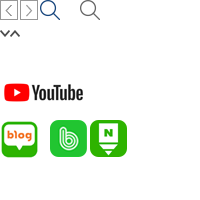
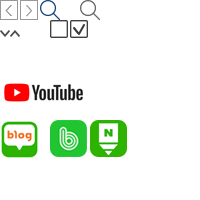
회원가입

Changed region(s): [[0.24, 0.09, 0.45, 0.21]]

diff --git a/chungwon/sub/signin.html b/chungwon/sub/signin.html
@@ -1,0 +1,177 @@
+<!DOCTYPE html>
+<html lang="ko">
+<head>
+	<meta charset="UTF-8">
+	<title>청원 PMC</title>
+	<link rel="stylesheet" href="../css/font.css">
+	<link rel="stylesheet" href="../css/common.css">
+	<link rel="stylesheet" href="../css/main.css">
+	<link rel="stylesheet" href="../css/jquery.bxslider.css">
+	<script src="../js/jquery-1.12.4.min.js"></script>
+	<script src="../js/jquery.bxslider.min.js"></script>
+</head>
+<body>
+<div id="chwIndex">
+	<a href="container">본문 바로가기</a>
+	<a href="chwGnb">메뉴 바로가기</a>
+</div>
+<div class="chw_wrap">
+	<div class="chw_header">
+		<div class="inner_header">
+			<h1><a href="#none" class="logo_chw">청원 PMC</a></h1>
+			<ul class="list_gnb">
+				<li>
+					<a href="#none" class="link_gnb">회원관리</a>
+					<ul class="list_sub">
+						<li><a href="#none" class="link_sub">로그인</a></li>
+						<li><a href="#none" class="link_sub">회원 가입</a></li>
+						<li><a href="#none" class="link_sub">회원 정보 수정</a></li>
+						<li><a href="#none" class="link_sub">회원사 가입</a></li>
+						<li><a href="#none" class="link_sub">소식 받기</a></li>
+					</ul>
+				</li>
+				<li>
+					<a href="#none" class="link_gnb">회사 소개</a>
+					<ul class="list_sub">
+						<li><a href="#none" class="link_sub">사업 영역 소개</a></li>
+						<li><a href="#none" class="link_sub">오시는 길</a></li>
+					</ul>
+				</li>
+				<li>
+					<a href="#none" class="link_gnb">PM 상담 접수</a>
+					<ul class="list_sub">
+						<li><a href="#none" class="link_sub">PM 상담 접수 리스트</a></li>
+						<li><a href="#none" class="link_sub">PM 접수</a></li>
+					</ul>
+				</li>
+				<li>
+					<a href="#none" class="link_gnb">전문가 컨설팅</a>
+				</li>
+				<li>
+					<a href="#none" class="link_gnb">맞춤 임대 찾기</a>					
+				</li>
+				<li>
+					<a href="#none" class="link_gnb">시장 분석</a>
+					<ul class="list_sub">
+						<li><a href="#none" class="link_sub">상권 분석 검색</a></li>
+					</ul>
+				</li>
+				<li>
+					<a href="#none" class="link_gnb">도움이 되는 실전 페이지</a>
+				</li>
+			</ul>
+		</div>
+	</div>
+	<div id="container" class="chw_cont"><!-- 콘텐츠 영역 표시를 위한 임시 스타일 -->
+		<h2 class="screen_out">본문</h2>
+		<div class="wrap_signin">
+			<form action="#">
+				<fieldset>
+					<legend><strong class="tit_sign">회원가입</strong></legend>
+					<div class="agree_signin">
+						<strong class="tit_agree">약관동의</strong>
+						<div class="box_agree">
+							<div class="inner_box">
+								가나다라마바사 가나다라마바사 가나다라마바사 가나다라마바사 가나다라마바사 가나다라마바사 가나다라마바사가나다라마바사 가나다라마바사 가나다라마바사 가나다라마바사 가나다라마바사 가나다라마바사 가나다라마바사가나다라마바사 가나다라마바사 가나다라마바사 가나다라마바사 가나다라마바사 가나다라마바사 가나다라마바사
+								<br><br>
+								가나다라마바사 가나다라마바사 가나다라마바사 가나다라마바사 가나다라마바사 가나다라마바사 가나다라마바사가나다라마바사 가나다라마바사 가나다라마바사 가나다라마바사 가나다라마바사 가나다라마바사 가나다라마바사가나다라마바사 가나다라마바사 가나다라마바사 가나다라마바사 가나다라마바사 가나다라마바사 가나다라마바사가나다라마바사 가나다라마바사 가나다라마바사 가나다라마바사 가나다라마바사 가나다라마바사 가나다라마바사가나다라마바사 가나다라마바사 가나다라마바사 가나다라마바사 가나다라마바사 가나다라마바사 가나다라마바사가나다라마바사 가나다라마바사 가나다라마바사 가나다라마바사 가나다라마바사 가나다라마바사 가나다라마바사
+							</div>
+						</div>
+						<div class="chk_signin">
+							<div class="chk_g">
+								<input type="checkbox" name="chkAgree" id="chkAgree" class="inp_chk">
+								<label for="chkAgree" class="ico_chw lab_chk"></label>
+								동의함
+							</div>
+						</div>
+					</div>
+					<div class="signin_chw">
+						<dl class="item_signin">
+							<dt class="signin_essential">
+								<label for="signId" class="lab_g">아이디</label>
+							</dt>
+							<dd>
+								<input type="text" name="signId" id="signId" class="inp_g">
+							</dd>
+							<dt class="signin_essential">
+								<label for="signLastName" class="lab_g">이름</label>
+							</dt>
+							<dd>
+								<input type="text" name="signLastName" id="signLastName" class="inp_g">
+							</dd>
+							<dt class="signin_essential">
+								<label for="signFirstName" class="lab_g">성</label>
+							</dt>
+							<dd>
+								<input type="text" name="signFirstName" id="signFirstName" class="inp_g">
+							</dd>
+							<dt class="signin_essential">
+								<label for="signPw" class="lab_g">비밀번호</label>
+							</dt>
+							<dd>
+								<input type="text" name="signPw" id="signPw" class="inp_g">
+							</dd>
+							<dt class="signin_essential">
+								<label for="signPwConfirm" class="lab_g">비밀번호 확인</label>
+							</dt>
+							<dd>
+								<input type="text" name="signPwConfirm" id="signPwConfirm" class="inp_g">
+							</dd>
+							<dt>
+								<label for="signPostCode" class="lab_g">우편번호</label>
+							</dt>
+							<dd>
+								<input type="text" name="signPostCode" id="signPostCode" class="inp_g">
+							</dd>
+							<dt>
+								<label for="signAddress" class="lab_g">주소</label>
+							</dt>
+							<dd>
+								<input type="text" name="signAddress" id="signAddress" class="inp_g">
+							</dd>
+							<dt class="signin_essential">
+								<label for="signTel" class="lab_g">전화번호</label>
+							</dt>
+							<dd>
+								<input type="text" name="signTel" id="signTel" class="inp_g">
+							</dd>
+							<dt class="signin_essential">
+								<label for="signEmail" class="lab_g">이메일</label>
+							</dt>
+							<dd>
+								<input type="text" name="signEmail" id="signEmail" class="inp_g">
+							</dd>
+						</dl>
+						<button type="submit" class="btn_signin">회원가입</button>
+					</div>
+				</fieldset>
+			</form>
+		</div>
+	</div>
+	<div class="chw_footer">
+		<div class="inner_footer">
+			<h1><a href="#none" class="logo_chw">청원PMC</a></h1>
+			<div class="info_company">
+				청원피엠씨㈜<br>
+				서울시 종로구 새문안로 92(신문로1가)오피시아 빌딩 1017호<br> 
+				문의 전화 : 02-6713-3738 I FAX : 02-3276-3088 I email : cw-pmc@cwpmc.co.kr<br>
+				Copyright © 2017 Chungwon PMC. All Rights Reserved.
+			</div>	
+			<div class="opt_chw"><!-- 셀렉트박스 오픈시 opt_open 클래스추가 -->
+				<button type="button" class="btn_opt">관련사이트<span class="ico_chw ico_arrow">열기</span></button>
+				<div class="list_opt">
+					<a href="http://www.iros.go.kr" target="_blank" class="link_opt">대법원 인터넷 등기소</a>
+					<a href="http://www.molit.go.kr" target="_blank" class="link_opt">국토교통부</a>
+					<a href="http://www.nts.go.kr/" target="_blank" class="link_opt">국세청</a>
+					<a href="http://www.onnara.go.kr" target="_blank" class="link_opt">온나라 부동산정보포탈</a>
+					<a href="http://www.koreit.co.kr" target="_blank" class="link_opt">한국 토지신탁</a>
+					<a href="http://www.onbid.co.kr" target="_blank" class="link_opt">온비드</a>
+					<a href="http://www.lh.or.kr" target="_blank" class="link_opt">한국토지주택공사</a>
+				</div>
+			</div>
+		</div>
+	</div>
+</div>
+<script src="../js/common.js"></script>
+</body>
+</html>

diff --git a/chungwon/css/main.css b/chungwon/css/main.css
@@ -26,6 +26,12 @@
 .opt_chw .ico_arrow{float:right;width:10px;height:7px;margin:9px 0 0;background-position:0 -30px}
 .opt_chw.opt_open .ico_arrow{background-position:-10px -30px}
 
+/* 체크박스 공통 */
+.chk_g {position:relative}
+.chk_g .inp_chk{position:absolute;top:0;left:0;width:100%;height:100%;opacity:0.01}
+.chk_g .inp_chk:checked + .lab_chk{background-position:-70px -20px}
+.chk_g .lab_chk{display:inline-block;width:20px;height:20px;vertical-align:top;background-position:-50px -20px}
+
 /* 콘텐츠 */
 .chw_cont{padding:0 0 60px}
 
@@ -169,14 +175,35 @@
 .item_login{overflow:hidden;padding:40px 0 0}
 .item_login dt{float:left;width:60px;padding:10px 0 0 20px}
 .item_login dd{overflow:hidden;padding:0 0 0 50px}
+.item_login dd .desc_g{padding:6px 0 0;color:#666}
 .item_login .inp_g{width:100%;padding:10px 15px;border:none;font-size:16px;background-color:#f1f1f1;box-sizing:border-box}
 .lab_login{font-size:16px;font-family:Noto Sans Bold, AppleSDGothicNeo-Bold,'Malgun Gothic','맑은 고딕',dotum,'돋움',sans-serif;color:#333}
-.btn_login{width:100%;height:60px;margin:60px 0 0;font-size:24px;color:#fff;background-color:#18467d}
+.btn_login{width:100%;height:60px;margin:60px 0 0;font-size:22px;color:#fff;background-color:#18467d}
+.btn_login:hover{background-color:#0d294a}
 .login_bottom{overflow:hidden;padding:20px 40px;margin:-1px 0 0;border:1px solid #e0e0e0}
 .login_bottom .link_signin{float:left}
 .login_bottom .find_login{float:right}
 .login_bottom .find_login .link_login{position:relative;padding:0 0 0 20px}
 .login_bottom .find_login .link_login:first-child:after{position:absolute;top:0;right:-12px;width:1px;height:100%;background-color:#ccc;content:''}
 
+/* 회원가입 */
+.agree_signin{padding:20px 0 40px}
+.agree_signin .tit_agree{font-size:16px}
+.agree_signin .box_agree{overflow:auto;height:200px;margin:10px 0 0;border:1px solid #e1e1e1;font-size:13px;background-color:#f1f1f1}
+.agree_signin .box_agree .inner_box{padding:30px 20px}
+.chk_signin{overflow:hidden}
+.chk_signin .chk_g{float:right;padding:10px 0 0;font-size:14px}
 
-
+.wrap_signin{width:800px;margin:0 auto;padding:40px 0 60px}
+.tit_sign{display:block;padding:0 0 20px;font-size:26px}
+.signin_chw{border-top:2px solid #333}
+.item_signin{overflow:hidden;border-bottom:1px solid #666}
+.item_signin dt{float:left;width:150px;height:74px;padding:24px 0 0 20px;border-bottom:1px solid #efefef;font-size:16px;box-sizing:border-box}
+.item_signin dt:nth-last-of-type(1){border-bottom:0 none}
+.item_signin dd{overflow:hidden;height:74px;padding:16px 20px;border-bottom:1px solid #efefef;box-sizing:border-box}
+.item_signin dd:nth-last-of-type(1){border-bottom:0 none}
+.item_signin .signin_essential .lab_g{position:relative}
+.item_signin .signin_essential .lab_g:after{position:absolute;top:0;right:-10px;color:#de0000;content:'*'}
+.item_signin .inp_g{width:100%;padding:10px;box-sizing:border-box}
+.btn_signin{display:block;width:120px;height:60px;margin:40px auto 0;font-size:20px;color:#fff;background-color:#18467d}
+.btn_signin:hover{background-color:#0d294a}

diff --git a/chungwon/sub/login.html b/chungwon/sub/login.html
@@ -72,11 +72,17 @@
 						<h3 class="tit_login">로그인</h3>
 						<dl class="item_login">
 							<dt><label for="loginId" class="lab_login">아이디</label></dt>
-							<dd><input type="text" id="loginId" class="inp_g"></dd>
+							<dd>
+								<input type="text" id="loginId" class="inp_g">
+								<p class="desc_g">5~12자의 영문 소문자, 숫자만 사용</p>
+							</dd>
 						</dl>
 						<dl class="item_login">
 							<dt><label for="loginPw" class="lab_login">비밀번호</label></dt>
-							<dd><input type="text" id="loginPw" class="inp_g"></dd>
+							<dd>
+								<input type="text" id="loginPw" class="inp_g">
+								<p class="desc_g">8~16자의 영문 대소문자, 숫자, 특수문자 모두 혼합</p>
+							</dd>
 						</dl>
 						<button type="submit" class="btn_login">로그인</button>
 					</div>
